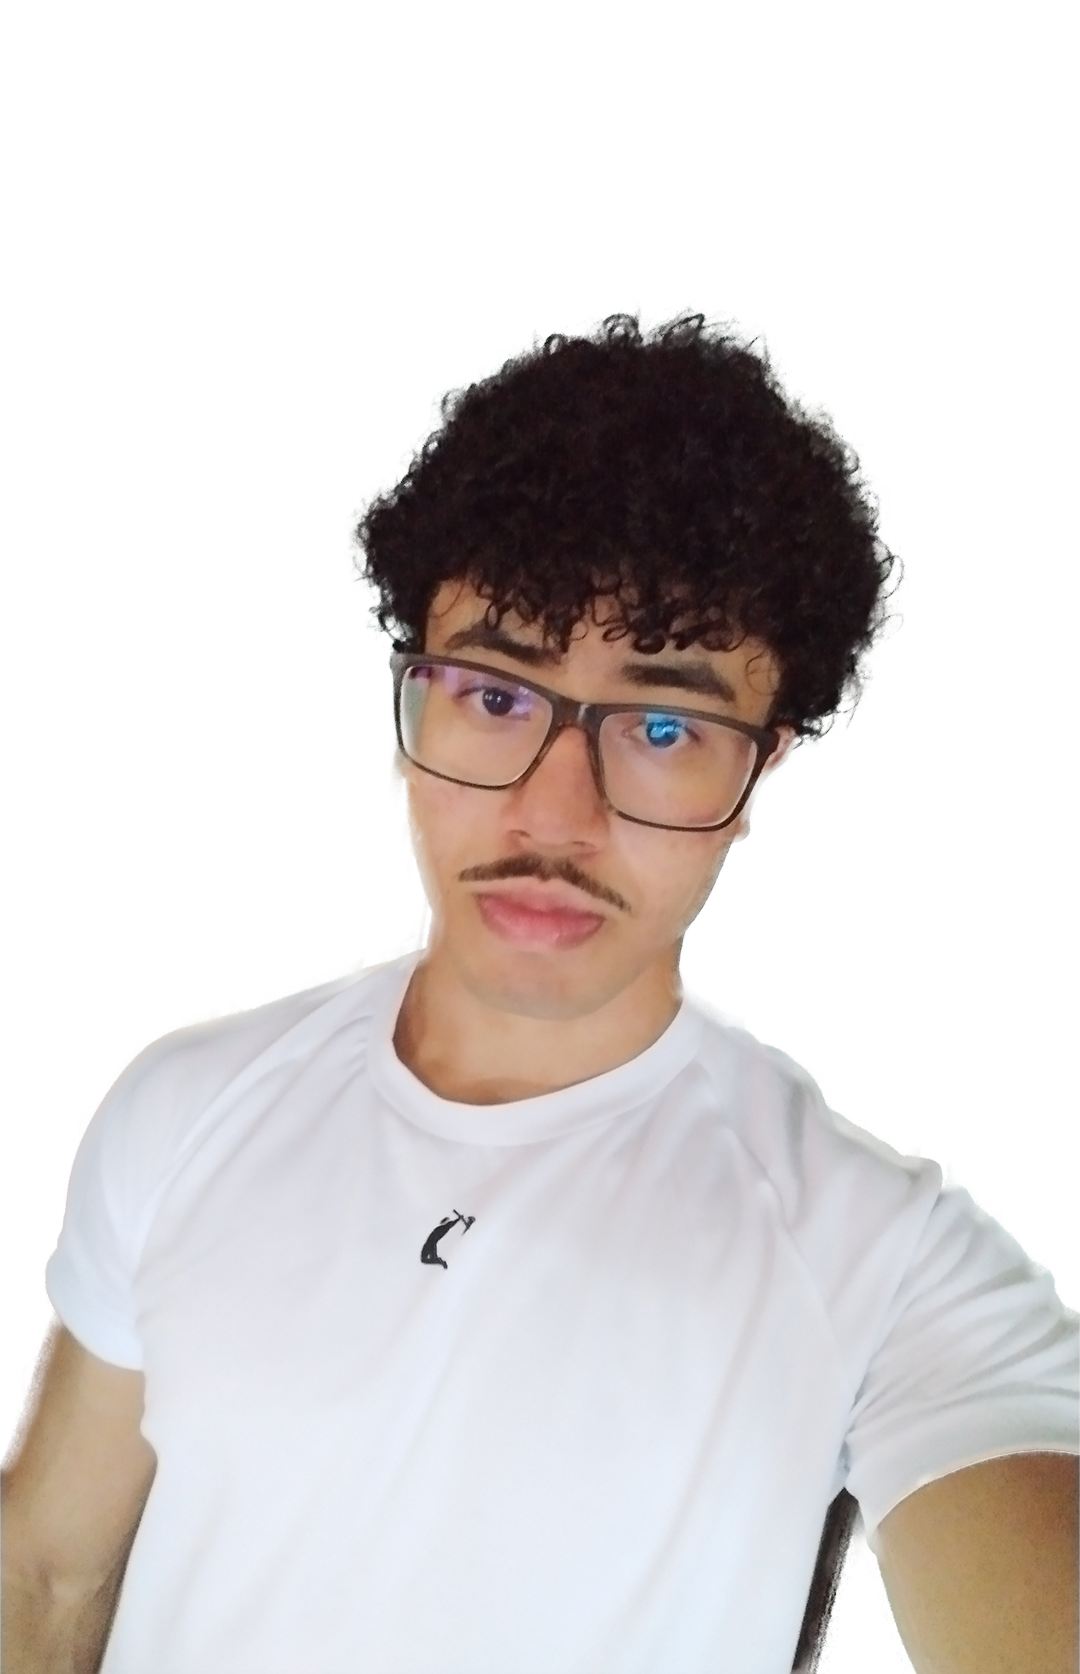
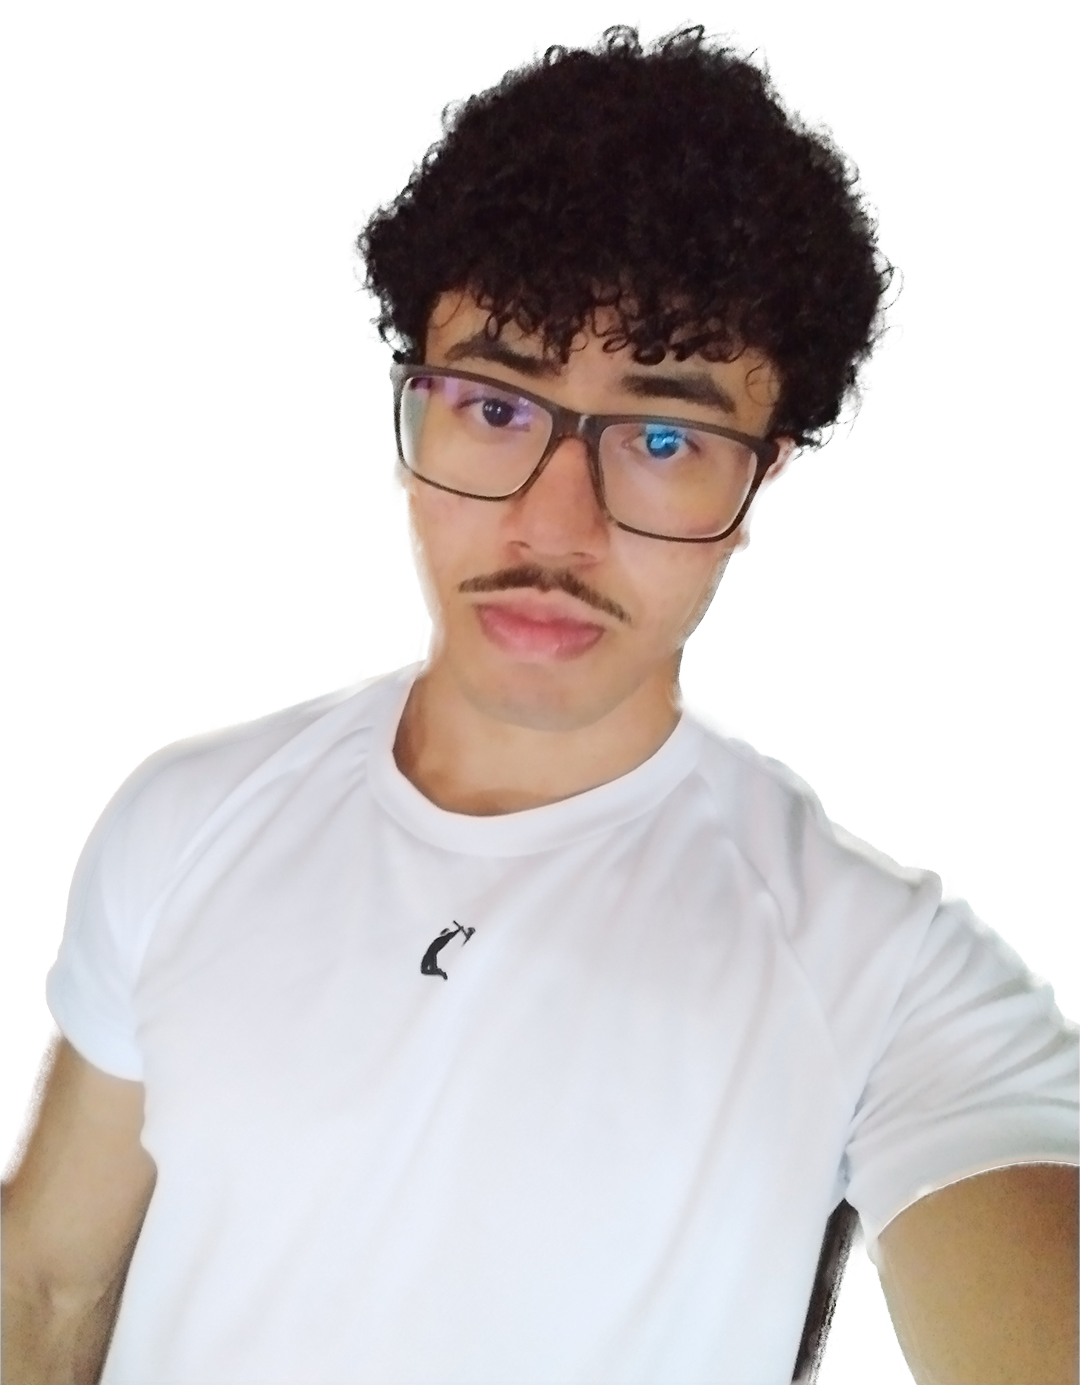
commit

Changed region(s): [[0.0, 0.0, 1.0, 1.0], [0.825, 0.9625, 0.8556, 0.9935], [0.7944, 0.7762, 0.825, 0.8072]]

diff --git a/css/home.css b/css/home.css
@@ -311,9 +311,9 @@
   
   .content-image img{
     left: 57rem;
-    top: -5rem;
+    top: 0rem;
     width: 431px;
-    height: 671px;
+    height: 571px;
   }
   
   .content-link{
@@ -361,7 +361,7 @@
   }
 }
 
-@media (max-width: 870px){
+@media (max-width: 1000px){
   .content-main{
     margin-left: 10rem;
     width: 600px;
@@ -391,9 +391,9 @@
   }
 
   .content-image img{
-    left: 15rem;
-    top: 20rem;
-    width: 431px;
+    left: 13rem;
+    top: 25rem;
+    width: 451px;
     height: 671px;
   }
 

diff --git a/css/index.css b/css/index.css
@@ -232,7 +232,7 @@ footer {
   }
 }
 
-@media screen and (max-width: 870px) {
+@media screen and (max-width: 1000px) {
   .menu-toggle {
     display: flex;
   }
